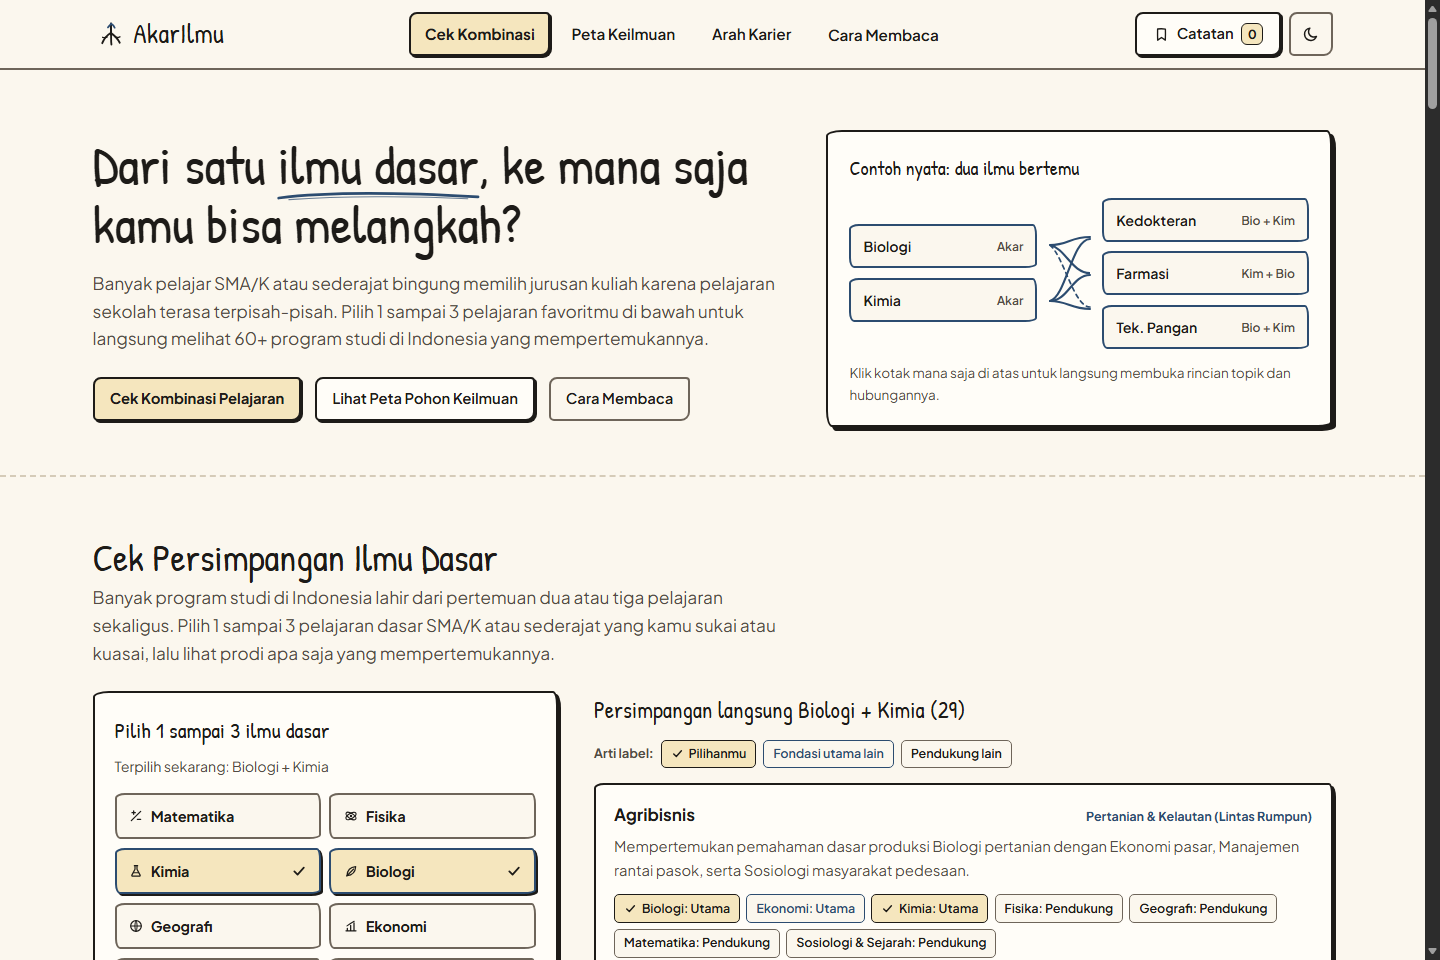
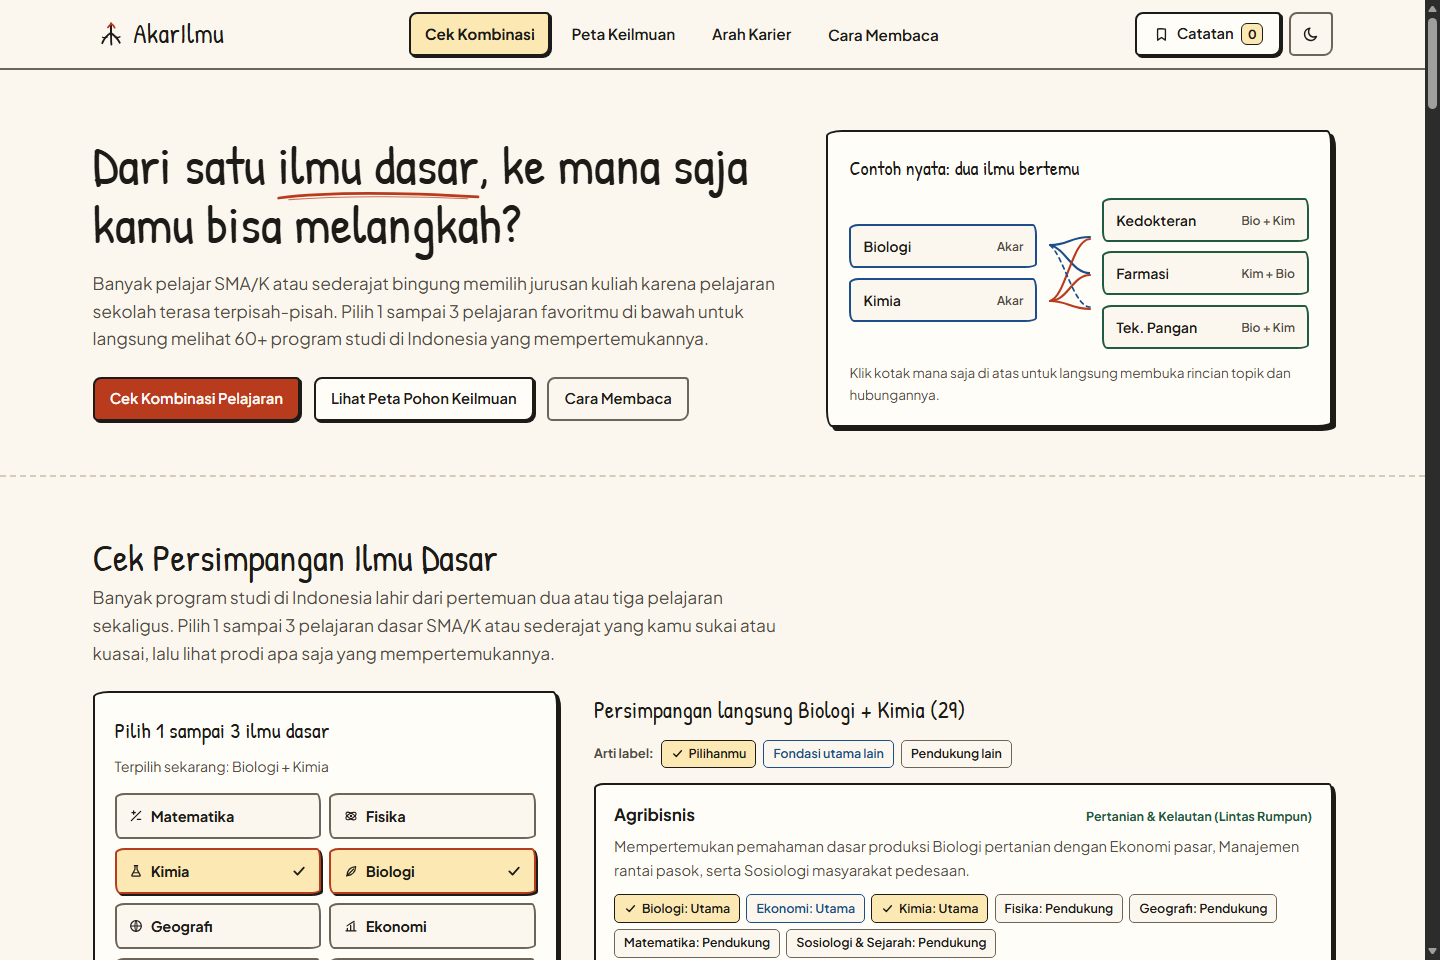
docs(panduan): sync PANDUAN.md, README.md, and all 4 screenshots with final production UI

diff --git a/PANDUAN.md b/PANDUAN.md
@@ -119,6 +119,8 @@ Di dalam pop-up rincian ini terdapat:
   Gunakan halaman **Cek Kombinasi** saat sesi konseling siswa untuk membantu siswa yang hanya tahu nilai rapor terbaiknya (misal kuat di *Matematika + Geografi* atau *Biologi + Ekonomi*), lalu tunjukkan **Pop-up Rincian Prodi** agar siswa memahami topik kuliah dan rasio persaingan kursinya.
 * **Untuk Orang Tua**:
   Gunakan halaman **Arah Karier** dan **Pop-up Rincian Prodi** untuk berdiskusi secara objektif bersama anak mengenai hubungan antara minat pelajaran mereka di sekolah, pilihan kampus PTN/PTS, dan prospek bidang kerjanya.
+* **Nyaman Dibaca Siang maupun Malam**:
+  Klik ikon **Bulan / Matahari** di pojok kanan atas untuk berganti antara **Mode Terang (*Warm Sketchbook*)** dan **Mode Gelap (*Catppuccin Mocha*)** yang dirancang lembut di mata, serta klik menu **Cara Membaca** kapan saja untuk membuka ringkasan panduan cepat berformat 2 kolom.
 
 ---
 

diff --git a/README.md b/README.md
@@ -73,7 +73,7 @@ Klik kotak program studi mana saja untuk membuka kartu pop-up *landscape* 2 kolo
 
 ### Teknologi yang Digunakan
 * React 19 + TypeScript + Vite 6
-* CSS Custom Design Tokens (tema sketsa terang *Warm Sketchbook* & mode gelap *Midnight Sketchbook* satu tone warna tenang, tanpa ketergantungan framework CSS eksternal)
+* CSS Custom Design Tokens (tema terang *Warm Sketchbook* dan mode gelap 3-warna berbasis *Catppuccin Mocha*, tanpa ketergantungan framework CSS eksternal)
 * Visualisasi garis pohon SVG kustom dengan pengukuran koordinat DOM presisi
 * Vercel Serverless Function (`api/feedback.js`) + `@vercel/functions`
 
